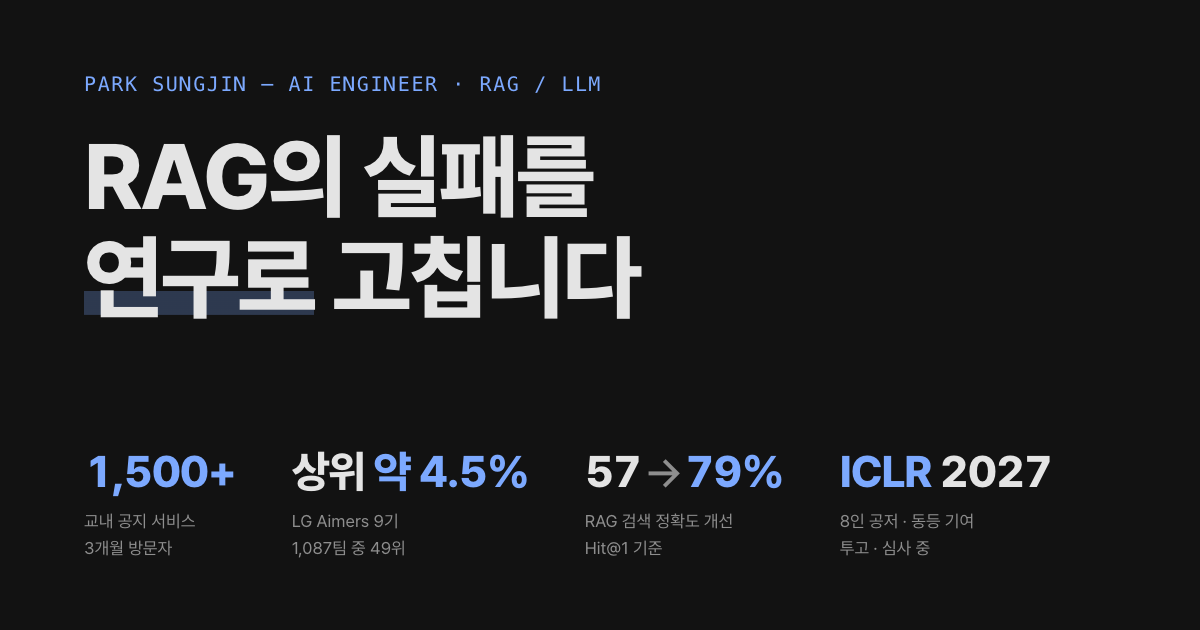
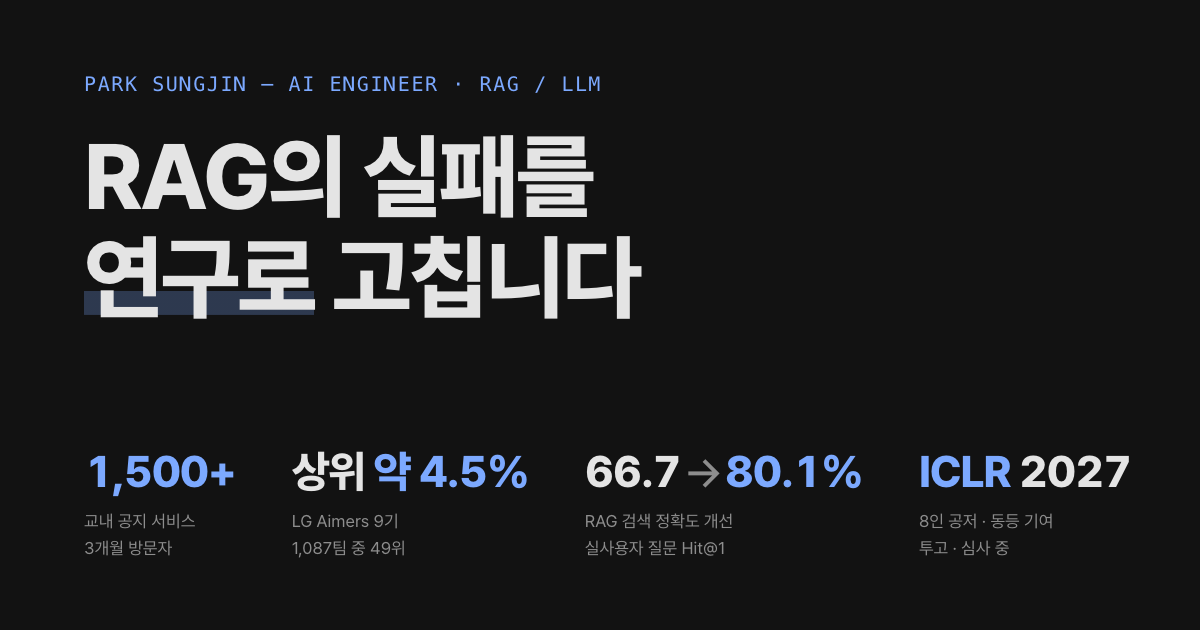
첫 화면 RAG 수치를 실사용자 질문 Hit@1 66.7→80.1%로 교체, recall@k·MRR 문장 삭제
메타 설명·og.png(v=7)을 함께 갱신. 숫자가 길어져 넘치던 수치 줄의 2열 전환 기준을
1149px로 올리고 640px 이하 글자 크기를 화면 폭에 맞춤.

Changed region(s): [[0.4933, 0.7238, 0.9558, 0.7841], [0.6783, 0.8143, 0.8942, 0.8746], [0.4933, 0.8444, 0.6167, 0.9048]]

diff --git a/index.html b/index.html
@@ -9,12 +9,12 @@ if(t!=='light'&&t!=='dark'){try{t=matchMedia('(prefers-color-scheme: dark)').mat
 document.documentElement.setAttribute('data-theme',t);})();
 </script>
 <title>박성진 — AI 엔지니어 (RAG · LLM)</title>
-<meta name="description" content="실사용자가 있는 RAG 서비스를 운영하고, 운영 데이터로 연구하는 AI 엔지니어 박성진. 교내 공지 통합 서비스 KAU Notice Hub 운영(3개월 방문 1,500+), LG Aimers 9기 1,087팀 중 49위, RAG Hit@1 57% → 79%, ICLR 2027 투고 논문 공저.">
+<meta name="description" content="실사용자가 있는 RAG 서비스를 운영하고, 운영 데이터로 연구하는 AI 엔지니어 박성진. 교내 공지 통합 서비스 KAU Notice Hub 운영(3개월 방문 1,500+), LG Aimers 9기 1,087팀 중 49위, RAG Hit@1 66.7% → 80.1%(실사용자 질문), ICLR 2027 투고 논문 공저.">
 <meta property="og:type" content="website">
 <meta property="og:title" content="박성진 — AI 엔지니어 (RAG · LLM)">
-<meta property="og:description" content="교내 공지 RAG 서비스 3개월 방문 1,500+ 운영 · RAG Hit@1 57% → 79% · LG Aimers 9기 상위 약 4.5% · ICLR 2027 투고 공저(8인 동등 기여)">
+<meta property="og:description" content="교내 공지 RAG 서비스 3개월 방문 1,500+ 운영 · RAG Hit@1 66.7% → 80.1%(실사용자 질문) · LG Aimers 9기 상위 약 4.5% · ICLR 2027 투고 공저(8인 동등 기여)">
 <meta property="og:url" content="https://jinpop.github.io/">
-<meta property="og:image" content="https://jinpop.github.io/og.png?v=6">
+<meta property="og:image" content="https://jinpop.github.io/og.png?v=7">
 <meta property="og:locale" content="ko_KR">
 <meta name="twitter:card" content="summary_large_image">
 <link rel="canonical" href="https://jinpop.github.io/">
@@ -345,8 +345,8 @@ figcaption{margin-top:.85rem;font-size:.85rem;color:var(--fg-3);max-width:52ch}
 }
 
 /* ── responsive ─────────────────────────────────────── */
-@media (max-width:999px){.stats{grid-template-columns:repeat(2,auto)}}
-@media (max-width:360px){.stats .num{font-size:1.55rem}}
+@media (max-width:1149px){.stats{grid-template-columns:repeat(2,auto)}}
+@media (max-width:640px){.stats .num{font-size:6.2vw}}
 @media (max-width:860px){
   .about-grid{grid-template-columns:1fr}
   .case-grid{grid-template-columns:1fr}
@@ -412,7 +412,7 @@ figcaption{margin-top:.85rem;font-size:.85rem;color:var(--fg-3);max-width:52ch}
     <ul class="stats" role="list">
       <li><a class="stat" href="#nh-now"><b class="num"><em>1,500+</em></b><span class="lab">교내 공지 서비스<br>3개월 방문자</span></a></li>
       <li><a class="stat" href="#aimers9"><b class="num">상위 <em>약 4.5%</em></b><span class="lab">LG Aimers 9기<br>1,087팀 중 49위</span></a></li>
-      <li><a class="stat" href="#nh-label"><b class="num">57<span class="arr">→</span><em>79%</em></b><span class="lab">RAG 검색 정확도 개선<br>Hit@1 기준</span></a></li>
+      <li><a class="stat" href="#nh-realuser"><b class="num">66.7<span class="arr">→</span><em>80.1%</em></b><span class="lab">RAG 검색 정확도 개선<br>실사용자 질문 Hit@1</span></a></li>
       <li><a class="stat" href="#exodro"><b class="num"><em>ICLR</em> 2027</b><span class="lab">8인 공저 · 동등 기여<br>투고 · 심사 중</span></a></li>
     </ul>
     <p class="hero-links">
@@ -468,7 +468,7 @@ figcaption{margin-top:.85rem;font-size:.85rem;color:var(--fg-3);max-width:52ch}
           <p><span class="lead-in">설계 결정과 운영</span>운영하며 생긴 문제를 계측으로 확인하고 고쳤습니다.</p>
           <ul class="decisions">
             <li>질문은 '공모전', 공지는 '해커톤'처럼 단어가 달라 단순 키워드 매칭이 놓치는 것을 확인하고, <b>LLM이 검색 키워드를 고르게</b> 바꿨습니다. 공지는 장학금·수강신청처럼 반복되는 핵심 단어가 많고 근거를 설명하기 쉬워, 벡터 임베딩 대신 키워드 검색을 유지했습니다. <a class="ref ext" href="https://qktjwl123.tistory.com/180" target="_blank" rel="noopener">글: RAG 고찰</a></li>
-            <li><b>자동 지표를 그대로 믿지 않았습니다.</b> RAGAS answer_relevancy는 13건 평균이 0.36으로 실제 품질보다 낮게 나왔습니다. 공지에 없는 날짜를 지어내지 않고 "명시되어 있지 않다"고 답한 경우도 0점으로 매겼기 때문입니다. 그래서 human&nbsp;evaluation(0/1 판정)으로 바꿨습니다. 정답을 임의로 고정하고 운영 경로(query routing·rerank)를 거치지 않던 recall@k·MRR 평가는 지웠습니다. <a class="ref ext" href="https://qktjwl123.tistory.com/181" target="_blank" rel="noopener">글: RAG 평가 도입</a></li>
+            <li><b>자동 지표를 그대로 믿지 않았습니다.</b> RAGAS answer_relevancy는 13건 평균이 0.36으로 실제 품질보다 낮게 나왔습니다. 공지에 없는 날짜를 지어내지 않고 "명시되어 있지 않다"고 답한 경우도 0점으로 매겼기 때문입니다. 그래서 human&nbsp;evaluation(0/1 판정)으로 바꿨습니다. <a class="ref ext" href="https://qktjwl123.tistory.com/181" target="_blank" rel="noopener">글: RAG 평가 도입</a></li>
             <li>공지를 메모리에 전부 올리던 초기 구조에서 <b>OOM</b>이 나, dmesg로 원인을 확인하고 SQLite로 바꾼 뒤 k6 부하 테스트로 검증했습니다. <a class="ref ext" href="https://qktjwl123.tistory.com/179" target="_blank" rel="noopener">글: 인프라 점검</a></li>
             <li id="nh-label">대학원생의 질문에 학부생용 공지가 근거로 섞이는 문제가 있었습니다. 공지마다 대상 라벨을 붙여 <b>사용자가 고른 신분의 공지만 근거로</b> 쓰게 했습니다. 질문 날짜 시점을 재현한 99문항 평가(1회 실행)에서 다른 대상 공지 혼입은 34%&nbsp;→&nbsp;0%, Hit@1은 57%&nbsp;→&nbsp;79%가 됐습니다.</li>
             <li id="nh-rerank"><b>rerank가 순위를 매기지 못하고 있었습니다.</b> 응답이 번호 오름차순으로만 나와(운영 로그 20건 모두) 1위가 사실상 검색 순서였습니다. 신분을 고른 질문은 대상 라벨을 보고 관련도 순으로 고르게 프롬프트와 모델을 바꿔, 생성 질문 510문항의 Hit@1이 84%&nbsp;→&nbsp;93.1%가 됐습니다.</li>

diff --git a/tools/og.html b/tools/og.html
@@ -19,7 +19,7 @@ h1{margin-top:30px;font-size:92px;font-weight:800;line-height:1.1;letter-spacing
 <ul class="stats">
 <li><b class="num"><em>1,500+</em></b><p class="lab">교내 공지 서비스<br>3개월 방문자</p></li>
 <li><b class="num">상위 <em>약 4.5%</em></b><p class="lab">LG Aimers 9기<br>1,087팀 중 49위</p></li>
-<li><b class="num">57<span class="arr">→</span><em>79%</em></b><p class="lab">RAG 검색 정확도 개선<br>Hit@1 기준</p></li>
+<li><b class="num">66.7<span class="arr">→</span><em>80.1%</em></b><p class="lab">RAG 검색 정확도 개선<br>실사용자 질문 Hit@1</p></li>
 <li><b class="num"><em>ICLR</em> 2027</b><p class="lab">8인 공저 · 동등 기여<br>투고 · 심사 중</p></li>
 </ul>
 </body></html>
